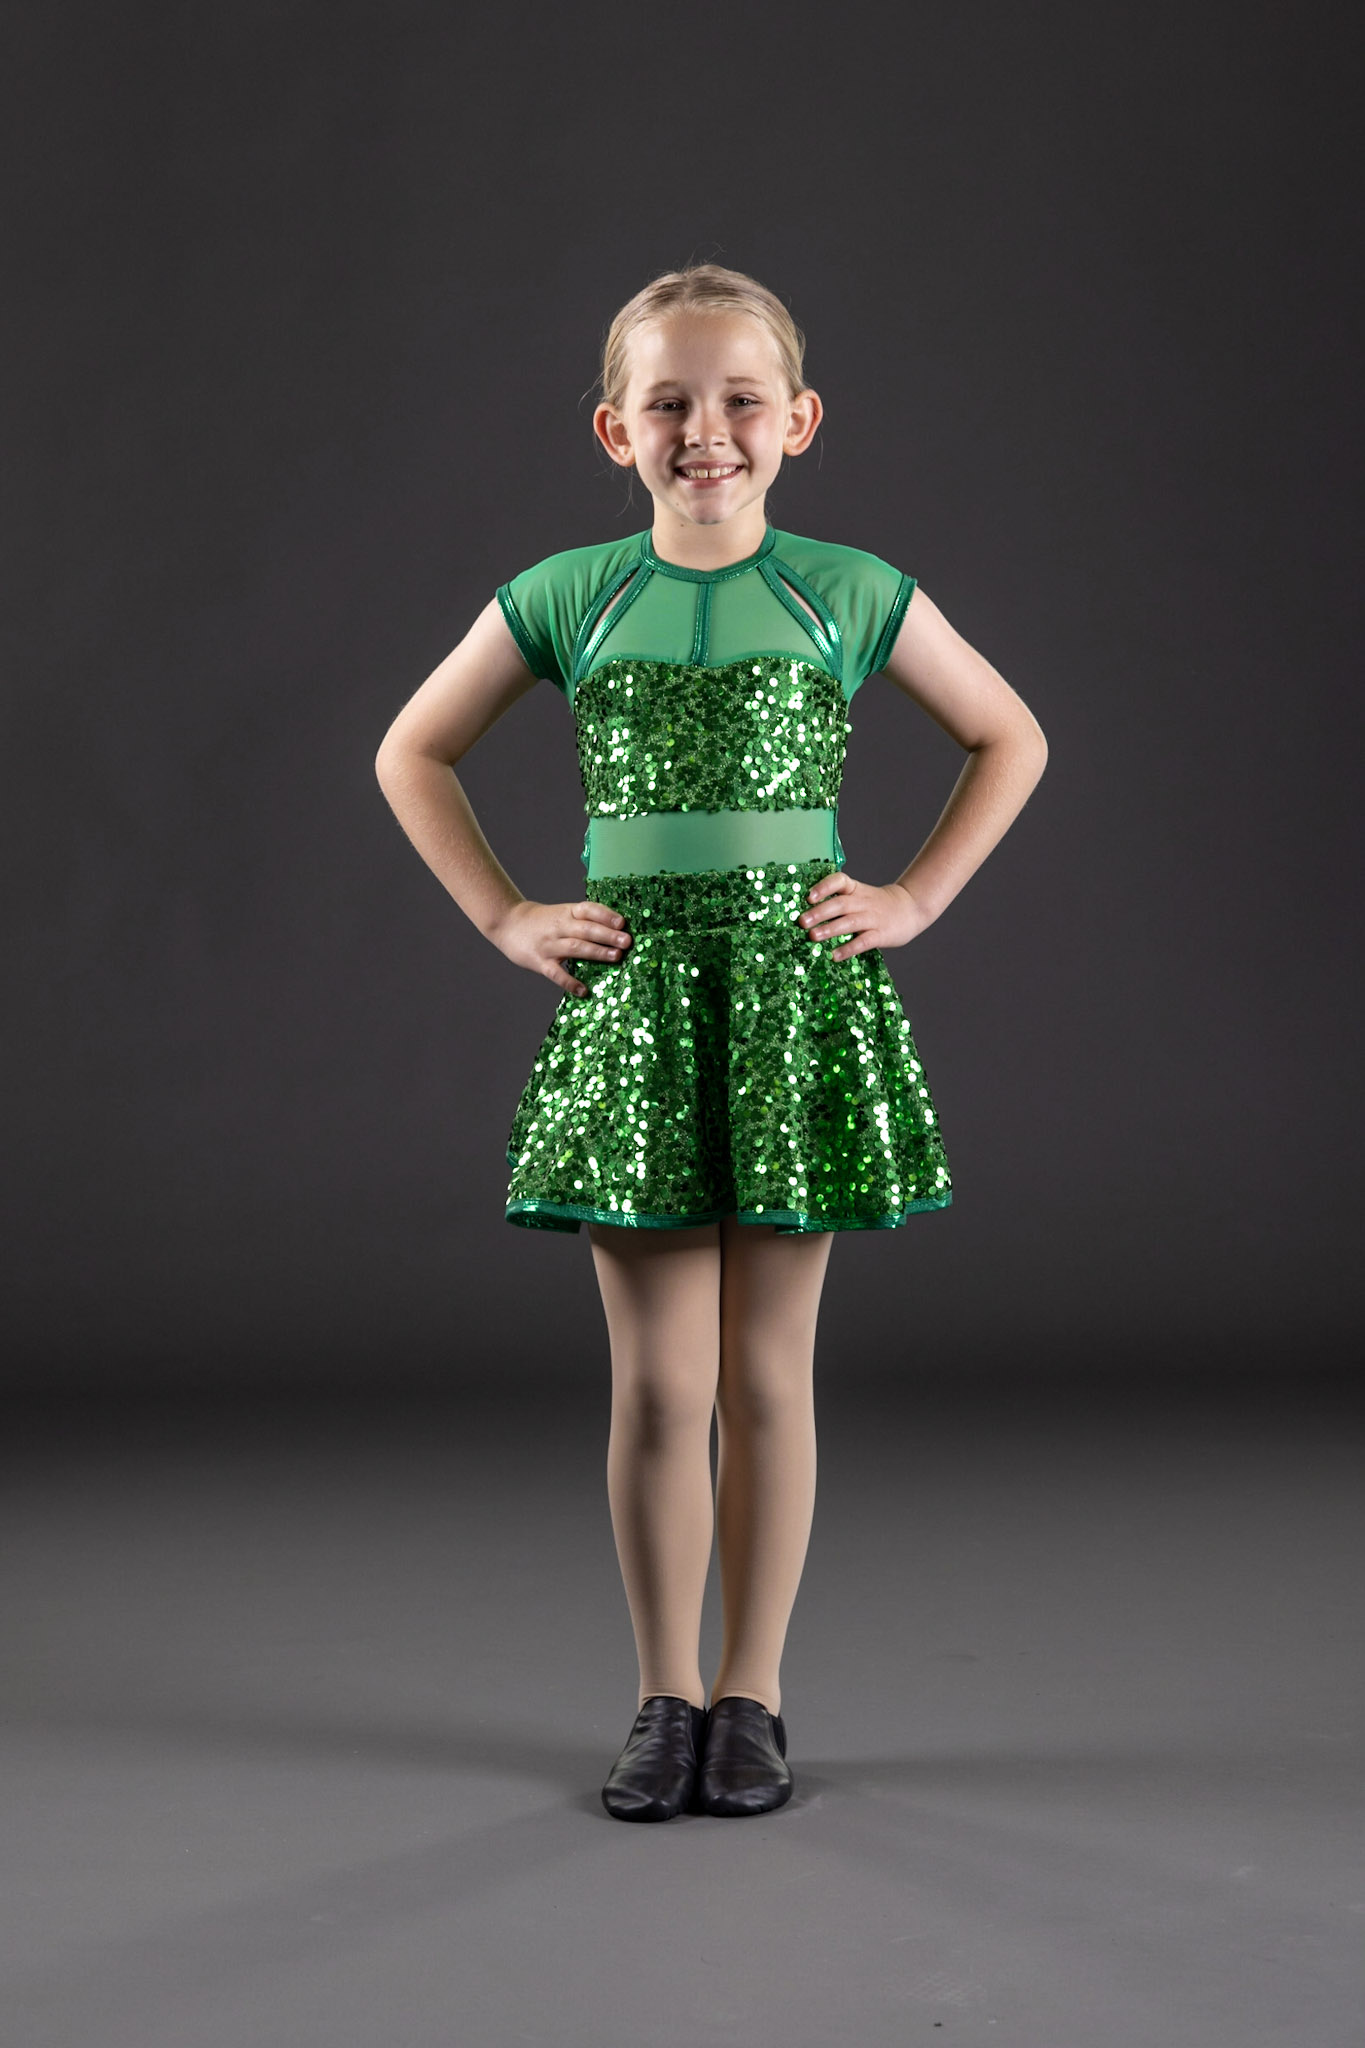
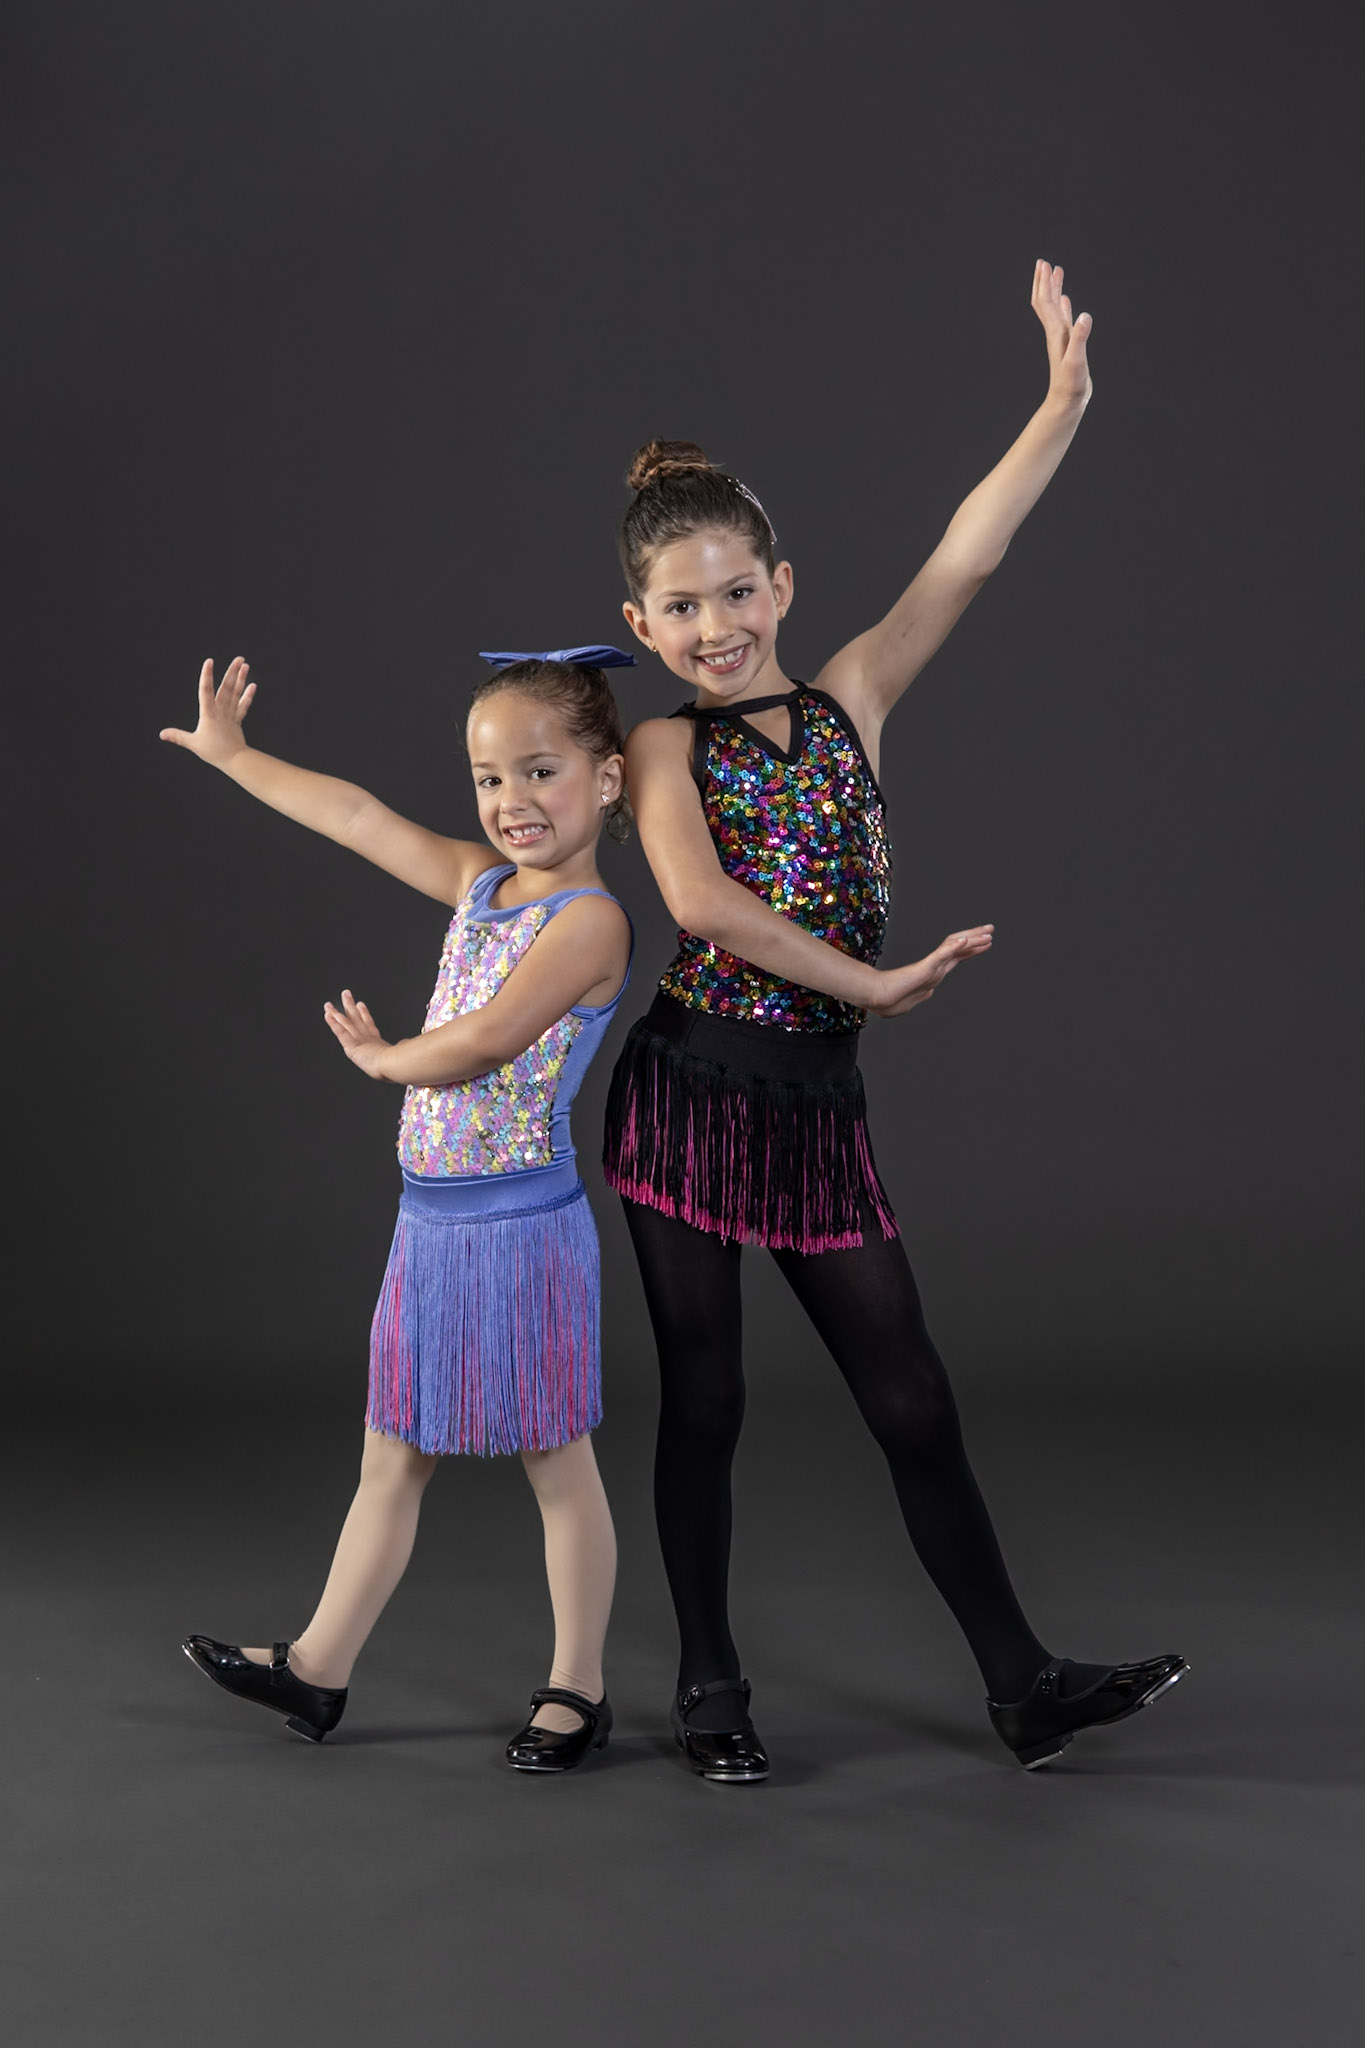
fixes

diff --git a/styles.css b/styles.css
@@ -185,14 +185,15 @@ nav.menu { /* mobile slide-out menu */
         padding: 10px 0;
     }
 
-.menu { /* primary menu list */
+.menu {
     list-style: none; /* remove bullets */
     margin: 0; /* reset margin */
     padding: 0; /* reset padding */
     display: flex; /* horizontal layout */
     flex-wrap: wrap; /* wrap on small widths */
     gap: .35rem .6rem; /* tighter row/column gaps */
-    align-items: center /* vertically center links */
+    align-items: center; /* vertically center links */
+    justify-content: space-between; /* split left vs. right */
 }
 
     .menu a, .menu button.dropdown-toggle { /* menu links and dropdown triggers */
@@ -211,7 +212,7 @@ nav.menu { /* mobile slide-out menu */
         }
 
 .menu-right { /* pushes items to the right side */
-    margin-left: auto
+
 }
 
 .has-dropdown { /* menu item with dropdown */
@@ -1613,4 +1614,50 @@ img, video, iframe, picture {
 
 /* .debug-gutter { outline: 1px dashed rgba(0,0,0,.06); padding-inline: var(--site-gutter); } */
 
+.menu > li {
+    margin: 0;
+    padding: 0;
+}
+
+.breadcrumbs { /* breadcrumb wrapper */
+    font-size: .9rem; /* smaller text */
+    margin: 0 0 1.5rem; /* spacing below */
+    padding: 0; /* reset padding */
+    list-style: none; /* remove bullets */
+    display: flex; /* use flexbox */
+    gap: .4rem; /* space between items */
+    flex-wrap: wrap; /* allow wrapping on small screens */
+}
+    .breadcrumbs li { /* individual breadcrumb item */
+        margin: 0; /* reset margin */
+        padding: 0 /* reset padding */
+    }
+    .breadcrumbs li.current { /* current page crumb */
+        font-weight: 600; /* semibold */
+        margin: 0; /* reset margin */
+        padding: 0; /* reset padding */
+        color: #333 /* dark text */
+    }
+    .breadcrumbs li.current a { /* current page link (if any) */
+        pointer-events: none; /* disable link */
+        cursor: default; /* default cursor */
+        font-weight: 600; /* semibold */
+        margin: 0; /* reset margin */
+        padding: 0; /* reset padding */
+        color: #333 /* dark text */
+    }
+    .breadcrumbs li span { /* separator span (if any) */
+        margin: 0; /* reset margin */
+        padding: 0; /* reset padding */
+        color: #666 /* muted text */
+    }
+    .breadcrumbs p { /* breadcrumb paragraph (if any) */
+        font-size: .9rem; /* smaller text */
+        margin: 0; /* reset margin */
+        padding: 0; /* reset padding */
+        color: #666 /* muted text */
+    }
+    .breadcrumbs strong { /* breadcrumb strong (if any) */
+        font-size: .9rem; /* smaller text */
+        font-weight: 600; /* semibold */
 

diff --git a/index.html b/index.html
@@ -177,7 +177,7 @@
             <!-- Tap -->
             <section id="tap-dance" class="dance-class">
                 <div class="dance-image">
-                    <img src="/photos/tap3.JPG" width="560" height="360" alt="Tap dance class in Chesterfield, MO for all ages" loading="lazy" decoding="async">
+                    <img src="/photos/tap1.JPG" width="560" height="360" alt="Tap dance class in Chesterfield, MO for all ages" loading="lazy" decoding="async">
                 </div>
                 <div class="dance-info">
                     <h3>Tap Dance Classes in Chesterfield, MO</h3>
@@ -249,7 +249,7 @@
             <!-- Musical Theater -->
             <section id="musical-theater" class="dance-class">
                 <div class="dance-image">
-                    <img src="/photos/jazz1.JPG" width="560" height="360" alt="Dancers performing on stage at Miss Kim's Dance Class" loading="lazy" decoding="async">
+                    <img src="/photos/musicaltheatre.JPG" width="560" height="360" alt="Dancers performing on stage at Miss Kim's Dance Class" loading="lazy" decoding="async">
                 </div>
                 <div class="dance-info">
                     <h3>Musical Theater Dance in Chesterfield, MO</h3>
